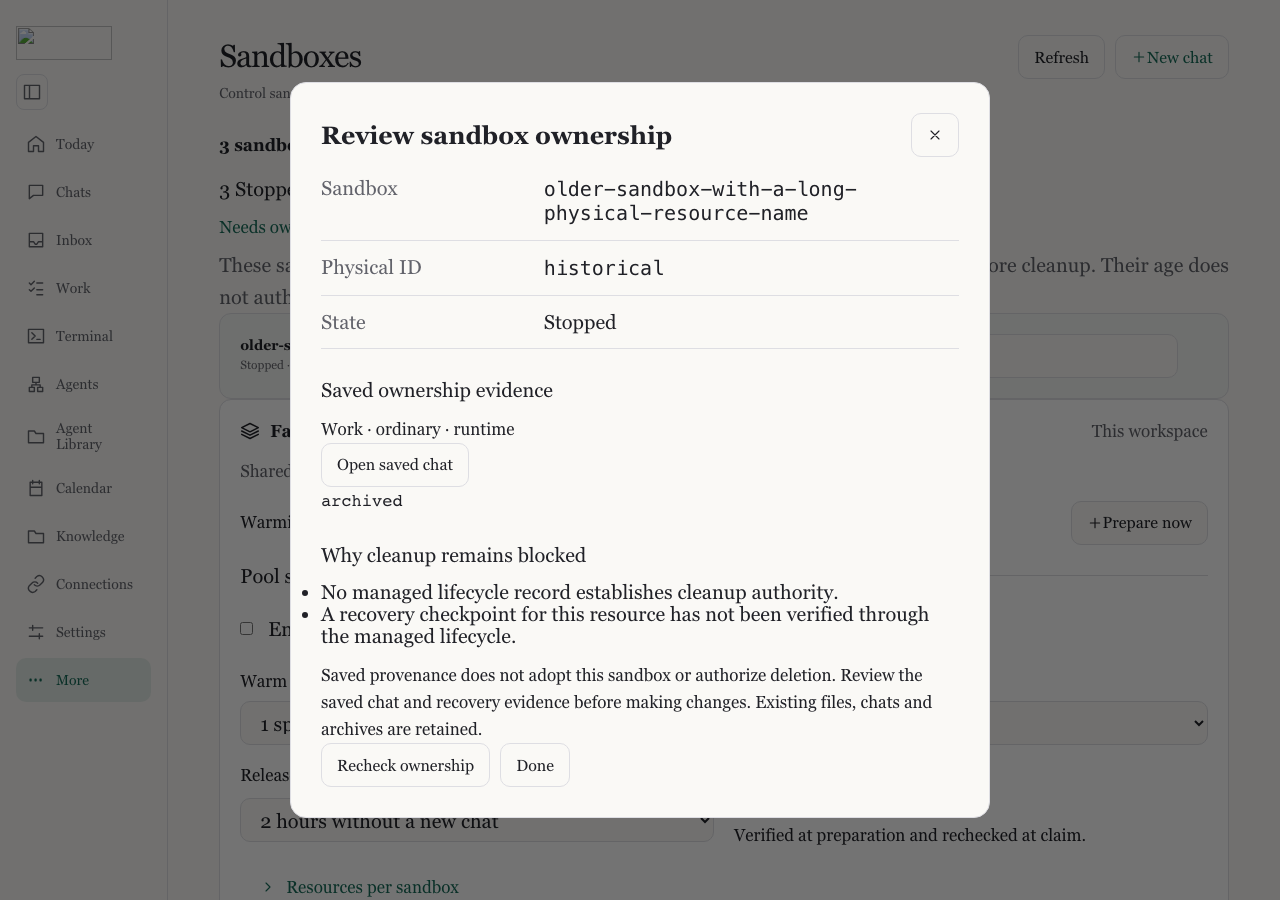
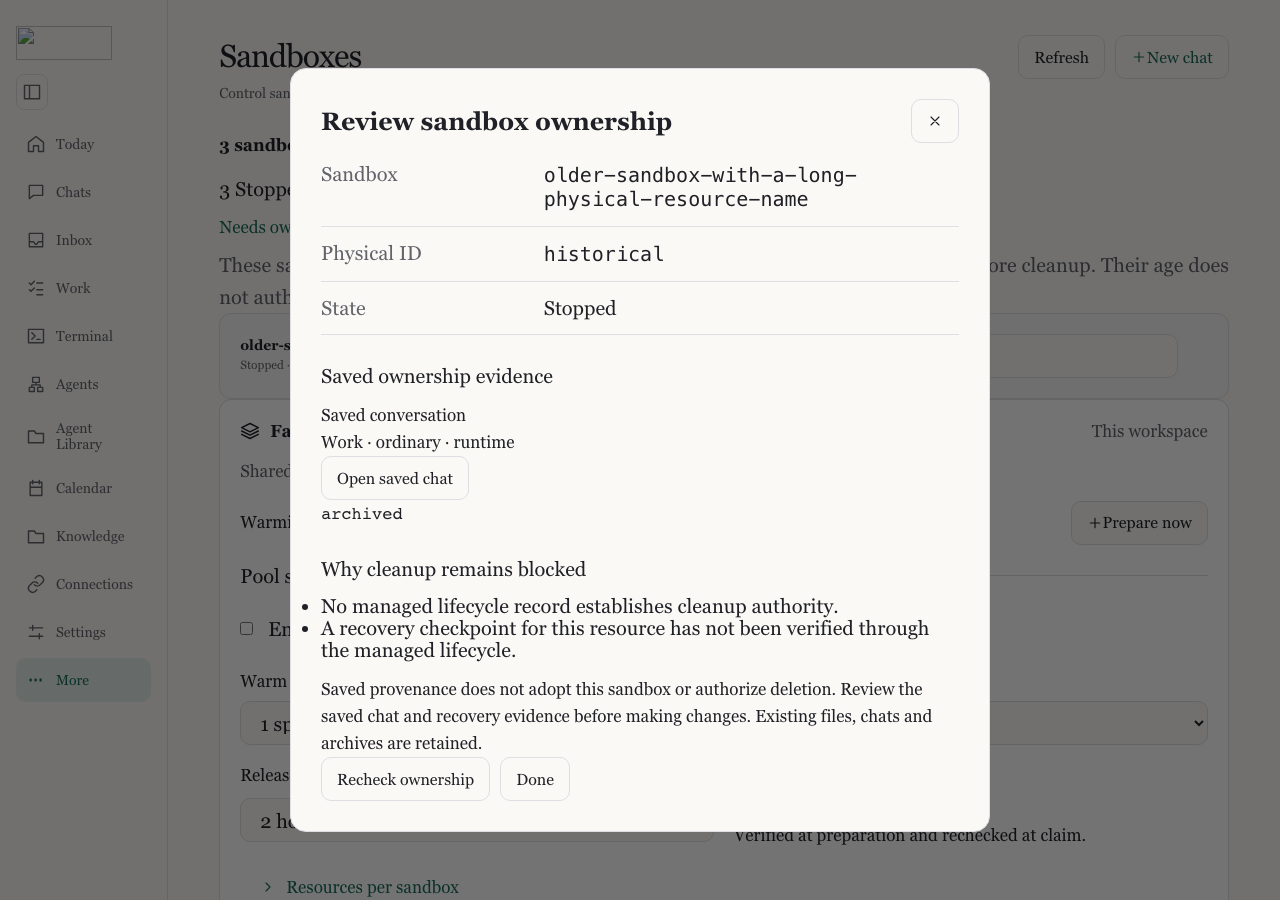
fix(sandboxes): restore focus after batch review closes

diff --git a/server/__tests__/codex-conversation-store.test.ts b/server/__tests__/codex-conversation-store.test.ts
@@ -1099,3 +1099,53 @@ it('lists minimal saved sandbox provenance without exposing route credentials or
   expect(JSON.stringify(rows)).not.toContain('cliEnvironment');
   s.close();
 });
+it('keeps migration source and candidate provenance separate and rejects mismatched saved account bindings', () => {
+  const { path } = setup();
+  const store = new CodexConversationStore(path);
+  store.create('migrated', binding, '/sandbox/workspaces/project');
+  store.setArtifactRuntime('migrated', binding, artifactRuntime);
+  const db = new Database(path);
+  const tuple = JSON.stringify([
+    binding.accountId,
+    binding.provider,
+    binding.model,
+    binding.profileRevision,
+  ]);
+  db.prepare(
+    'INSERT INTO codex_runtime_migrations(conversation_id,binding,data) VALUES (?,?,?)',
+  ).run(
+    'migrated',
+    tuple,
+    JSON.stringify({
+      source: artifactRuntime,
+      candidate: {
+        ...artifactRuntime,
+        runtime: {
+          ...artifactRuntime.runtime,
+          sandboxId: 'candidate',
+          sandboxName: 'candidate-name',
+        },
+        route: {
+          kind: 'chatgpt-subscription',
+          provider: 'account-provider',
+          providerType: 'openai-codex-oauth',
+          providerId: 'private-provider',
+          grantId: 'private-grant',
+          model: 'test-model',
+        },
+      },
+    }),
+  );
+  const rows = store.listSandboxOwnership();
+  expect(rows.map((row) => row.relation)).toEqual([
+    'runtime',
+    'migration_source',
+    'migration_candidate',
+  ]);
+  expect(rows.at(-1)?.physicalId).toBe('candidate');
+  expect(JSON.stringify(rows)).not.toContain('private-grant');
+  db.prepare('UPDATE codex_runtime_migrations SET binding=?').run('["different"]');
+  expect(() => store.listSandboxOwnership()).toThrow(/binding changed/);
+  db.close();
+  store.close();
+});

diff --git a/server/connections/reviewed-handler-artifacts.ts b/server/connections/reviewed-handler-artifacts.ts
@@ -11,7 +11,7 @@ export const reviewedGithubPublicationImplementationRevision = 'v1.0.10';
 
 /** Runtime admission changes without changing existing provider policy semantics. */
 export const reviewedConnectionsRuntimeImplementationRevision =
-  'v1.0.281-symposium-capacity.1-telos-s4.1-sandbox-review.1';
+  'v1.0.281-symposium-capacity.1-telos-s4.1-sandbox-review.2';
 
 export function reviewedHandlerSourceFingerprint(source: string) {
   return createHash('sha256').update(source.replace(/\r\n/g, '\n')).digest('hex');
@@ -183,7 +183,7 @@ export const reviewedHandlerSourceArtifacts = Object.freeze({
   '../openshell-lifecycle-service.ts':
[1 lines of base64/hex data omitted]
   '../../frontend/src/pages/SandboxesView.tsx':
[2 lines of base64/hex data omitted]
   '../../frontend/src/pages/SandboxesView.css':
[1 lines of base64/hex data omitted]
   '../../frontend/src/types/sandboxes.ts':

diff --git a/tests/offline/sandbox-cleanup-review.spec.ts b/tests/offline/sandbox-cleanup-review.spec.ts
@@ -167,6 +167,7 @@ for (const theme of ['dark', 'light'] as const)
     await expect(dialog.getByRole('button', { name: 'Delete reviewed sandboxes' })).toBeDisabled();
     expect(writes).toEqual([]);
     await dialog.getByRole('button', { name: 'Cancel' }).click();
+    await expect(page.getByRole('button', { name: 'Refresh', exact: true })).toBeFocused();
     // Cancel clears selection, so select only the eligible conversation for the next review.
     await page
       .getByRole('checkbox', { name: 'Select sandbox for Completed comparison report' })
@@ -188,6 +189,7 @@ for (const theme of ['dark', 'light'] as const)
     expect(writes).toEqual(['fresh-one']);
     await dialog.getByRole('button', { name: 'Done' }).click();
     await expect(page.getByText('2 sandboxes on this gateway')).toBeVisible();
+    await expect(page.getByRole('button', { name: 'Refresh', exact: true })).toBeFocused();
     await expect(
       page.getByRole('checkbox', { name: 'Select sandbox for Completed comparison report' }),
     ).toHaveCount(0);

diff --git a/frontend/src/pages/SandboxesView.tsx b/frontend/src/pages/SandboxesView.tsx
@@ -47,7 +47,15 @@ export function SandboxesView() {
   } | null>(null);
   const [selection, setSelection] = useState<string[]>([]);
   const [batch, setBatch] = useState<SandboxConversation[] | null>(null);
-  const refreshButton = useRef<HTMLButtonElement>(null);
+  const refreshButton = useRef<HTMLButtonElement>(null),
+    batchWasOpen = useRef(false);
+  useEffect(() => {
+    if (batch) batchWasOpen.current = true;
+    else if (batchWasOpen.current) {
+      batchWasOpen.current = false;
+      refreshButton.current?.focus();
+    }
+  }, [batch]);
   const mounted = useRef(false),
     inFlight = useRef(false),
     dirtyRef = useRef(false),
@@ -750,7 +758,6 @@ export function SandboxesView() {
           onClose={() => {
             setBatch(null);
             setSelection([]);
-            refreshButton.current?.focus();
           }}
           onChanged={() => refresh()}
         />
